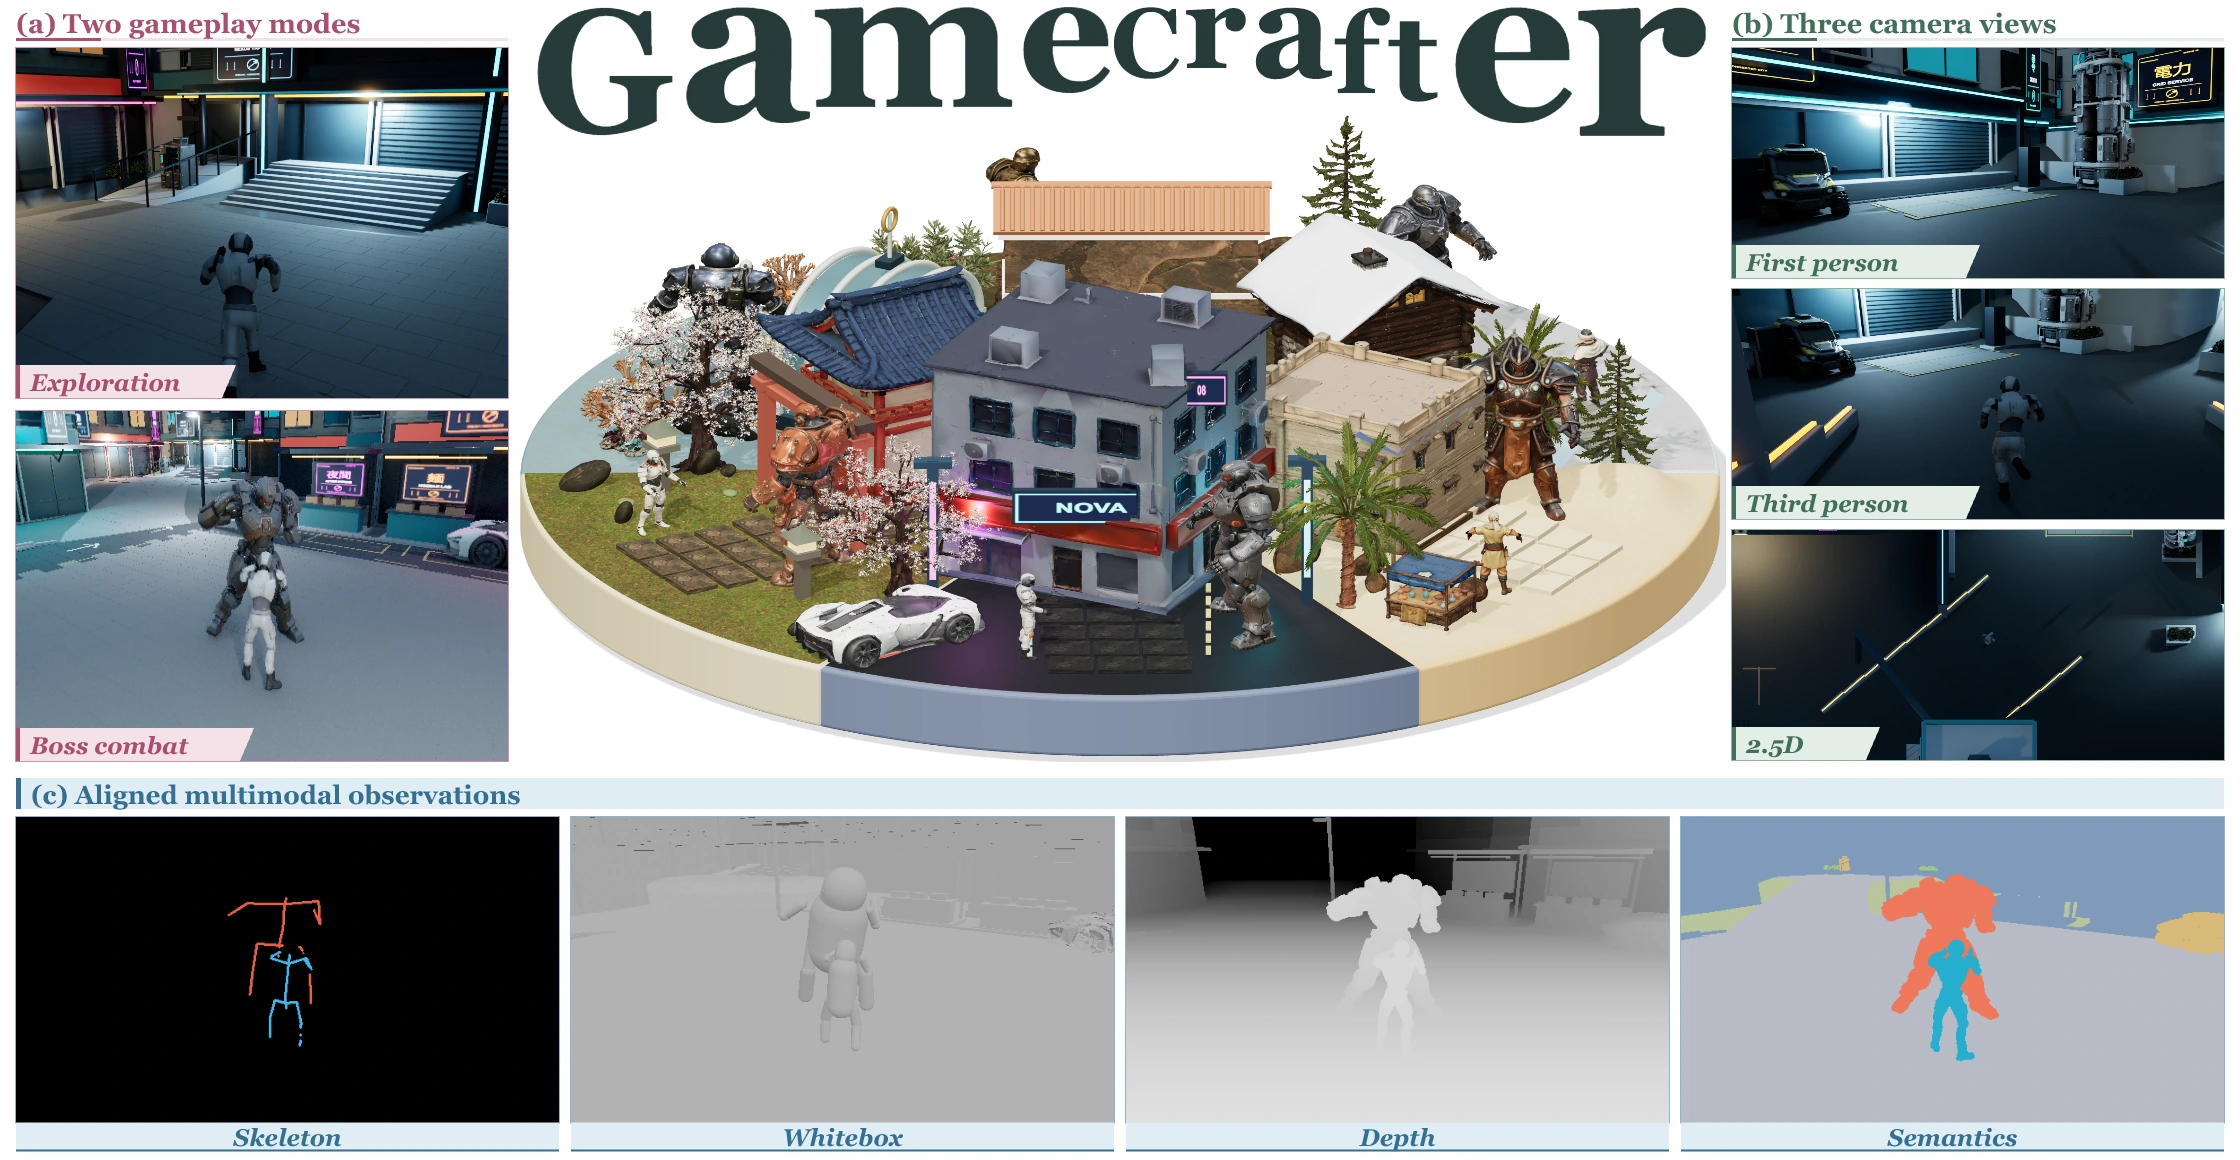
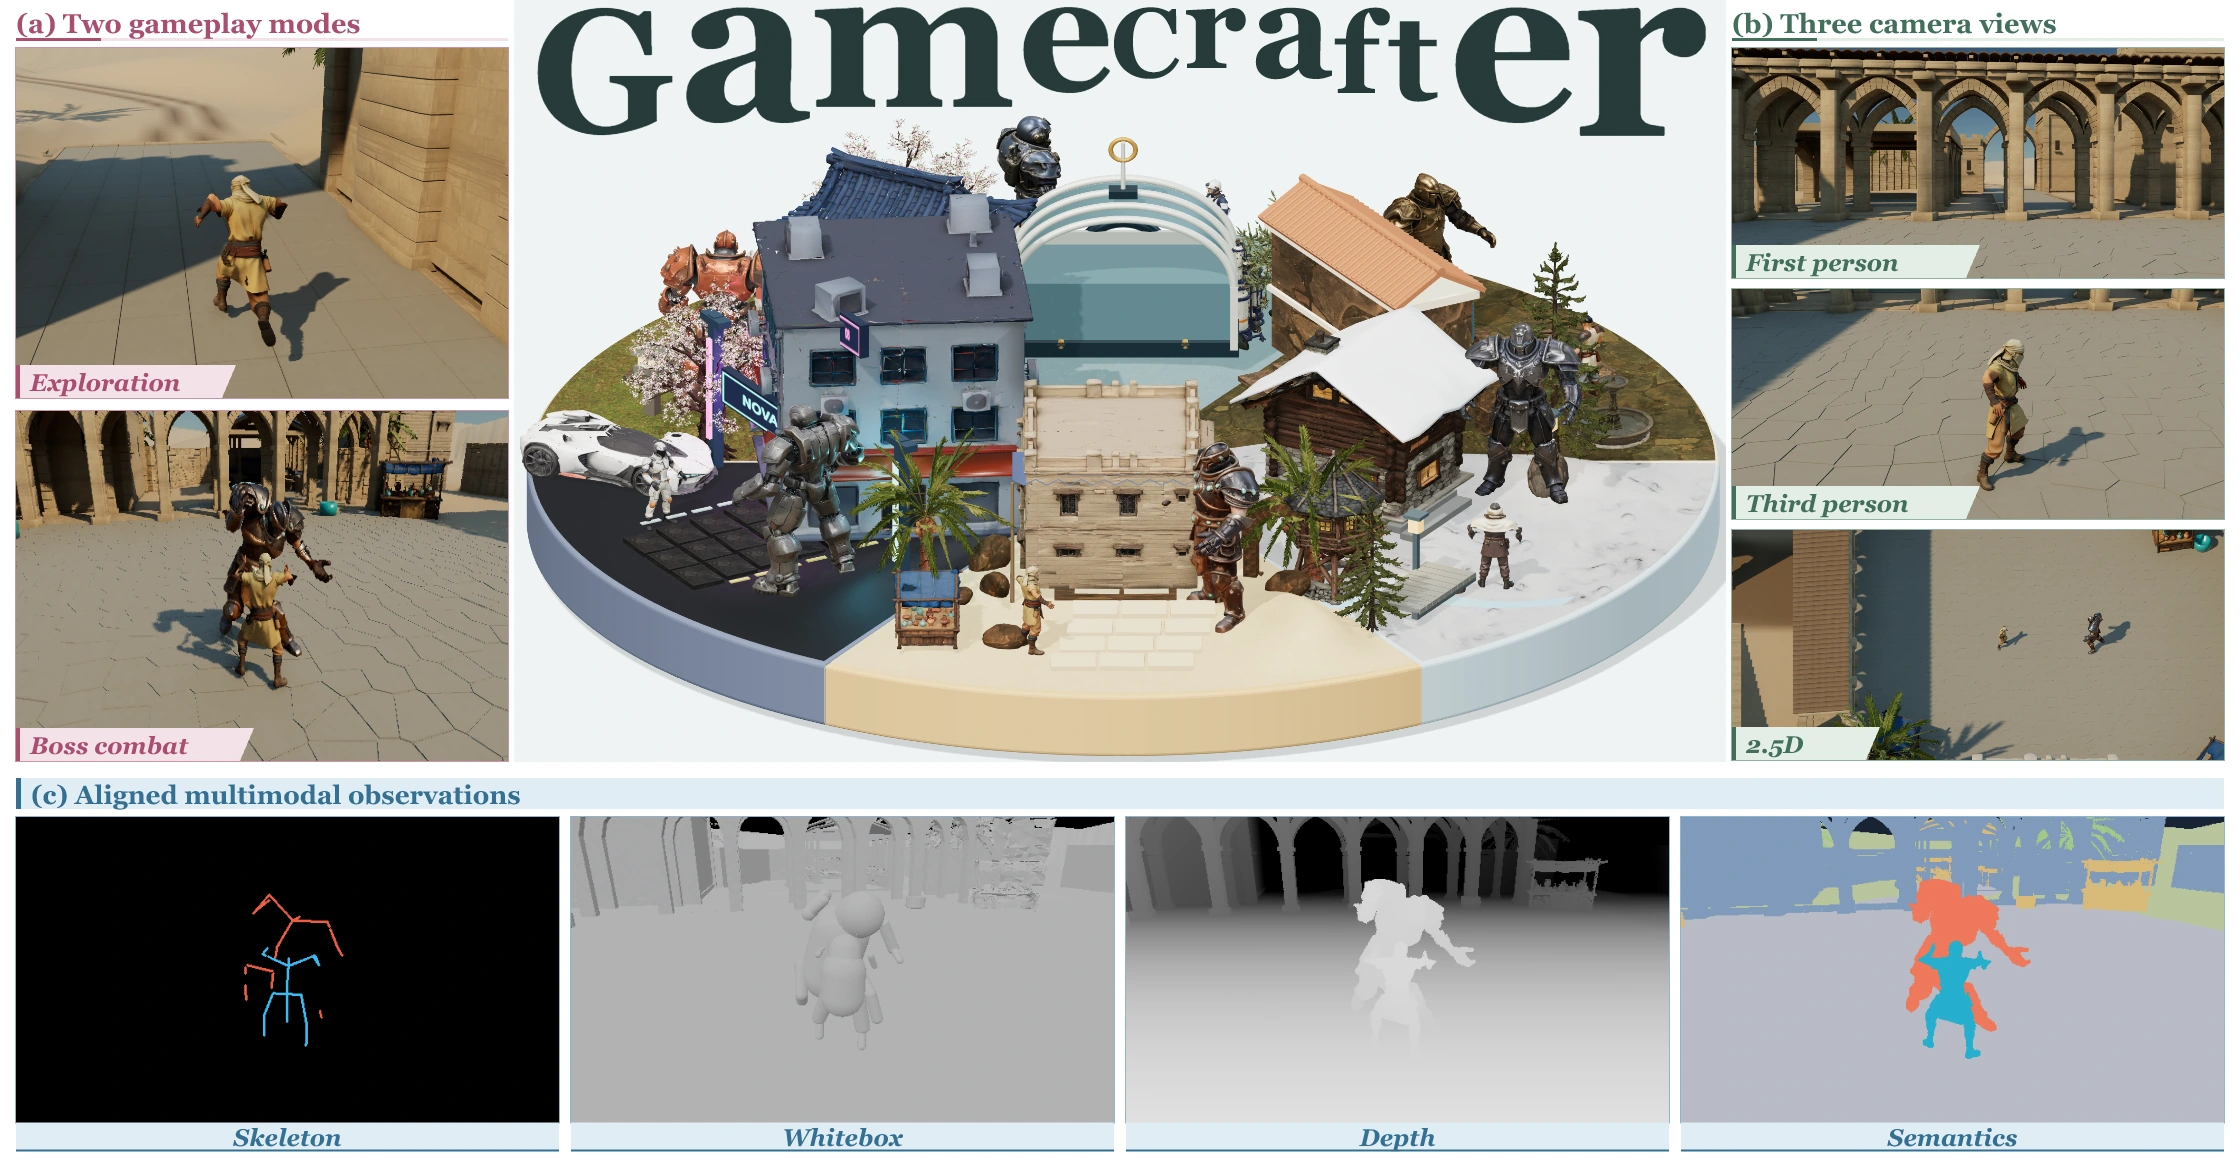
Feature Dune Court in the teaser with a pale miniature backdrop

diff --git a/index.html b/index.html
@@ -28,10 +28,10 @@
 
 <section class="intro section" id="overview"><div class="section-label">The idea</div><div class="intro-grid"><h2>A world you can<br><em>actually play.</em></h2><div><p>GameCrafter turns high-level instructions into coherent 3D game worlds where exploration and boss combat share the same executable environment. Specialized agents coordinate scene construction, character creation, animation, and gameplay across generative models, Blender, and Unreal Engine.</p><p>Four stages connect specification-guided orchestration, structure-aware asset synthesis, multi-gameplay world realization, and closed-loop quality control. The resulting worlds support three camera views and synchronized multimodal observations.</p></div></div>
 <figure class="teaser-figure" id="teaser-figure">
- <a class="teaser-figure-open" href="assets/figures/gamecrafter-teaser.png?v=neon-review-1" target="_blank" rel="noopener" aria-label="Open the full-resolution GameCrafter cyberpunk teaser">
-  <img src="assets/figures/gamecrafter-teaser.webp?v=neon-review-1" width="2240" height="1160" loading="lazy" decoding="async" alt="Six-world miniature overview with Neon Switchyard facing forward. Actual Unreal Engine captures show exploration and Boss combat, first-person, third-person and 2.5D views, and aligned skeleton, whitebox, depth and semantic outputs.">
+ <a class="teaser-figure-open" href="assets/figures/gamecrafter-teaser.png?v=dune-light-1" target="_blank" rel="noopener" aria-label="Open the full-resolution GameCrafter desert teaser">
+  <img src="assets/figures/gamecrafter-teaser.webp?v=dune-light-1" width="2240" height="1160" loading="lazy" decoding="async" alt="Six-world miniature overview with Dune Court facing forward on a pale blue-gray background. Actual Unreal Engine captures show exploration and Boss combat, first-person, third-person and 2.5D views, and aligned skeleton, whitebox, depth and semantic outputs.">
  </a>
- <figcaption><p><strong>Many worlds. Playable from every perspective.</strong> Neon Switchyard demonstrates two gameplay modes, three camera views, and aligned multimodal observations. The central disc is a representative 3D overview.</p><a href="assets/figures/gamecrafter-teaser.png?v=neon-review-1" target="_blank" rel="noopener">Full-resolution figure <span aria-hidden="true">↗</span></a></figcaption>
+ <figcaption><p><strong>Many worlds. Playable from every perspective.</strong> Dune Court demonstrates two gameplay modes, three camera views, and aligned multimodal observations. The central disc is a representative 3D overview.</p><a href="assets/figures/gamecrafter-teaser.png?v=dune-light-1" target="_blank" rel="noopener">Full-resolution figure <span aria-hidden="true">↗</span></a></figcaption>
  <nav class="teaser-case-links" aria-label="Explore the featured worlds"><a href="?scene=sakura_courtyard#results">Japanese garden</a><a href="?scene=neon_switchyard#results">Neon cyberpunk</a><a href="?scene=snowbound_outpost#results">Snowbound outpost</a><a href="?scene=desert_caravanserai#results">Desert caravanserai</a></nav>
 </figure>
 <div class="capability-line"><div><strong>2</strong><span>Gameplay modes</span></div><div><strong>3</strong><span>Camera perspectives</span></div><div><strong>5</strong><span>Aligned outputs</span></div><div class="last-capability"><span>Text or references</span><span class="flow-symbol">→</span><span>Playable worlds</span></div></div>

diff --git a/ATTRIBUTION.md b/ATTRIBUTION.md
@@ -48,8 +48,8 @@ Sunward Sentinel uses current-run rigged characters, generated olive/fountain/fl
 
 Abyssal Lock uses the accepted current-run diver player, pressure-suit Boss, submersible, coral and pressure relay, plus the authored habitat geometry. No other case assets were used for this production. The separate production archive preserves original source references for the display exports.
 
-## Cyberpunk teaser
+## Dune Court teaser
 
-The teaser combines a high-resolution render of the six-sector web diorama with actual Neon Switchyard Unreal Engine captures. The cyberpunk sector faces forward. Exploration shows the transit entrance; the three camera views show the repair-depot area. These independent viewpoint captures are not asserted to be simultaneous.
+The teaser combines a high-resolution render of the six-sector web diorama with actual Dune Court Unreal Engine captures. The desert sector faces forward, with a pale blue-gray presentation background. Exploration shows the outward entrance route; the three camera panels show the courtyard. These independent viewpoint captures are not asserted to be simultaneous. Capture colors are unchanged.
 
-The combat RGB and four accompanying modalities come from frame 240 of the same third-person combat sequence (native 640 × 360). Skeleton transparency is composited on black; depth uses a fixed inverse linear camera-Z display from 0.5 to 30 m; semantic IDs use a fixed class palette. Cropping and proportional resizing are for presentation. The web diorama remains a representative composition, not an Unreal level export.
+The combat RGB and four accompanying modalities come from frame 240 of the same third-person combat sequence (native 640 × 360). Skeleton transparency is composited on black; depth uses a fixed inverse linear camera-Z display from 0.5 to 30 m; semantic IDs use the same fixed class palette as the previous teaser. Cropping and proportional resizing are for presentation. The four modality panels preserve the complete source frame extent. The web diorama remains a representative composition, not an Unreal level export.

diff --git a/README.md b/README.md
@@ -2,7 +2,7 @@
 
 **GameCrafter: An Agentic Framework for Multi-Gameplay Game World Generation**
 
-This repository contains the static research project page. It includes an interactive six-sector 3D overview, the method figure, eight recorded game-world cases, and a high-resolution cyberpunk teaser.
+This repository contains the static research project page. It includes an interactive six-sector 3D overview, the method figure, eight recorded game-world cases, and a high-resolution Dune Court teaser.
 
 ## View locally
 
